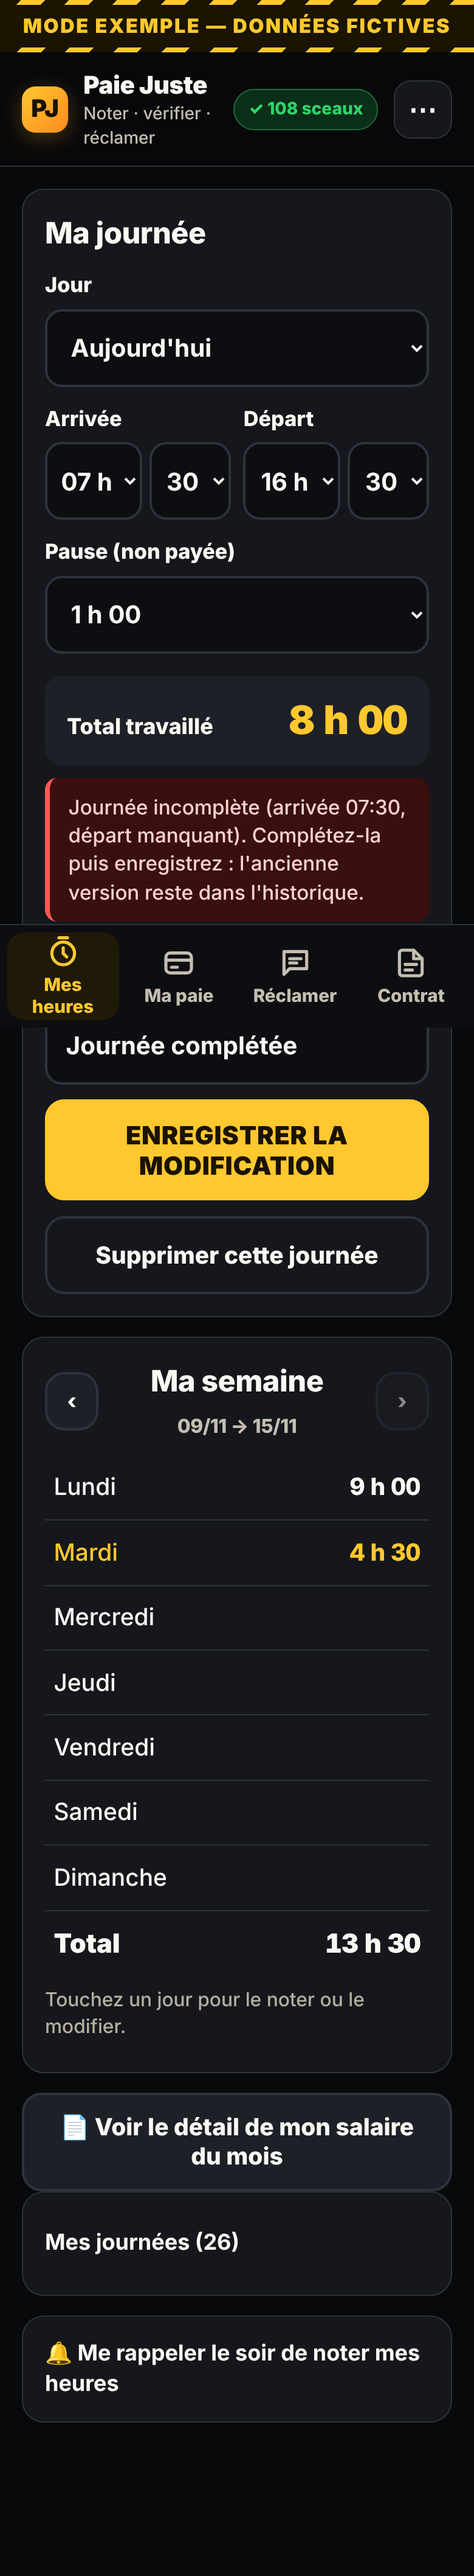
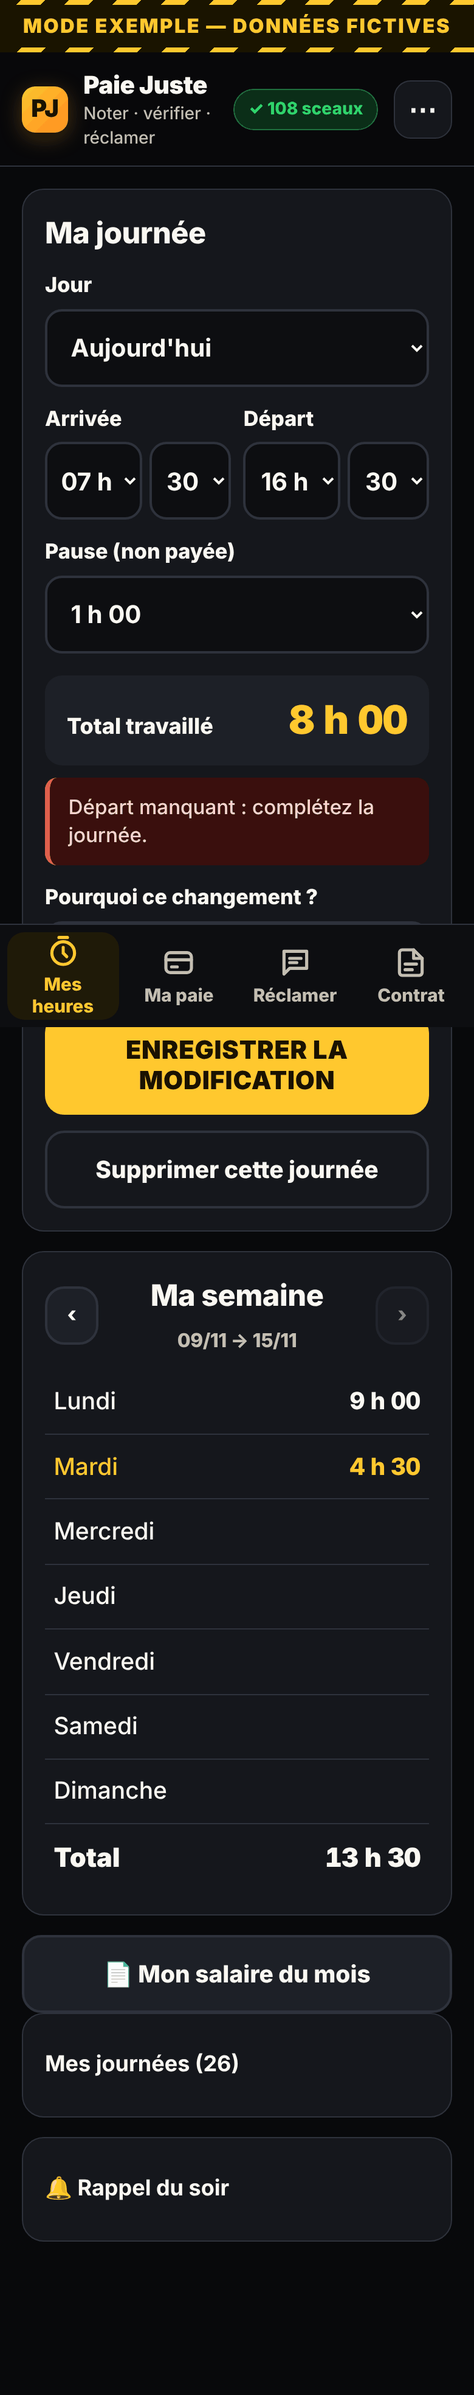
Allège l'écran Mes heures : textes d'explication retirés, libellés courts
Claude-Session: https://claude.ai/code/session_016NWEJHWN7FpaQE58cH9vDJ

diff --git a/js/modules/pointer.js b/js/modules/pointer.js
@@ -76,12 +76,8 @@ function journeeCard(ctx, today, jour, existant) {
       <div class="total-jour"><span>Total travaillé</span><b class="num" id="j-total">—</b></div>
       ${
         modif
-          ? `${
-              existant.aVerifier
-                ? `<p class="note bad">Journée incomplète (arrivée ${esc(existant.arrivee || "?")}${existant.depart ? "" : ", départ manquant"}). Complétez-la puis enregistrez : l'ancienne version reste dans l'historique.</p>`
-                : `<p class="note">Ce jour est déjà noté (${esc(existant.arrivee)} → ${esc(existant.depart)}, ${fmtH(existant.minutes)}). Pour le changer, indiquez pourquoi : l'ancienne version reste dans l'historique.</p>`
-            }
-      <label for="j-motif">Pourquoi cette modification ? (obligatoire)</label><input id="j-motif" type="text" value="${existant.aVerifier ? "Journée complétée" : ""}" placeholder="Ex. : je suis parti à 17 h, pas 16 h 30">`
+          ? `${existant.aVerifier ? `<p class="note bad">Départ manquant : complétez la journée.</p>` : ""}
+      <label for="j-motif">Pourquoi ce changement ?</label><input id="j-motif" type="text" value="${existant.aVerifier ? "Journée complétée" : ""}" placeholder="Ex. : parti à 17 h">`
           : ""
       }
       <p class="note bad" id="j-err" hidden></p>
@@ -139,7 +135,7 @@ function bindJournee(ctx, el, c, existant) {
   const motifOk = () => {
     const m = $("#j-motif") ? $("#j-motif").value.trim() : "";
     if ($("#j-motif") && !m) {
-      ctx.toast("Indiquez pourquoi vous modifiez cette journée.", true);
+      ctx.toast("Indiquez pourquoi.", true);
       return null;
     }
     return m;
@@ -167,7 +163,7 @@ function bindJournee(ctx, el, c, existant) {
       if (m === null) return;
       for (const id of existant.ids) await ctx.append("correction", { targetId: id, motif: m, annule: true });
       ui.edit = false;
-      ctx.toast("Journée supprimée. Elle reste visible, barrée, dans l'historique.");
+      ctx.toast("Journée supprimée.");
       ctx.refresh();
     };
   }
@@ -193,7 +189,6 @@ function semaineCard(c, punches, lundi, today) {
         <tr class="tot"><td>Total</td><td class="r num" id="s-total">${fmtH(s.total)}</td></tr>
         ${sup ? `<tr><td>${c.hebdo < 35 ? "dont heures compl. et sup" : "dont heures sup"}</td><td class="r num" style="color:var(--amber)">${fmtH(sup)}</td></tr>` : ""}
       </table>
-      <p class="small dim">Touchez un jour pour le noter ou le modifier.</p>
     </div>`;
 }
 
@@ -211,7 +206,6 @@ function historiqueCard(journees, today) {
           <b class="num">${j.supprimee ? "" : fmtH(j.minutes)}</b></li>`,
         )
         .join("")}</ul>
-      <p class="small dim">Chaque journée est scellée par une empreinte SHA-256 qui inclut la précédente : une modification ne remplace rien, elle s'ajoute et se voit. Ce n'est pas une preuve certifiée.</p>
     </details>`;
 }
 
@@ -222,13 +216,11 @@ function appUrl() {
 function rappelCard(ctx, today) {
   const heure = ctx.meta.rappelHeure || "19:00";
   const [soir, mois] = rappelsParDefaut({ date: today, heure, appUrl: appUrl() });
-  return `<details class="card" id="rappel"><summary style="min-height:48px;display:flex;align-items:center"><b>🔔 Me rappeler le soir de noter mes heures</b></summary>
-      <p class="small muted">Le rappel passe par l'agenda de votre téléphone, qui sonne tout seul, même appli fermée.</p>
+  return `<details class="card" id="rappel"><summary style="min-height:48px;display:flex;align-items:center"><b>🔔 Rappel du soir</b></summary>
       ${heureChamp("r-heure", "Heure du rappel", heure)}
-      <a class="btn primary" id="r-soir" target="_blank" rel="noopener" href="${esc(googleAgendaUrl(soir))}">Rappel chaque soir (lun.-ven.) dans Google Agenda</a>
-      <a class="btn" id="r-mois" target="_blank" rel="noopener" href="${esc(googleAgendaUrl(mois))}">Rappel le dernier jour du mois : vérifier ma paie</a>
-      <button class="btn ghost" id="r-ics">Autre agenda : télécharger les 2 rappels (.ics)</button>
-      <p class="small dim">Google Agenda s'ouvre avec le rappel déjà rempli : appuyez sur « Enregistrer ». Aucune donnée de paie n'est envoyée, seulement le titre et l'heure.</p>
+      <a class="btn primary" id="r-soir" target="_blank" rel="noopener" href="${esc(googleAgendaUrl(soir))}">Rappel chaque soir</a>
+      <a class="btn" id="r-mois" target="_blank" rel="noopener" href="${esc(googleAgendaUrl(mois))}">Rappel en fin de mois</a>
+      <button class="btn ghost" id="r-ics">Autre agenda (.ics)</button>
     </details>`;
 }
 
@@ -245,7 +237,7 @@ function bindRappel(ctx, el, today) {
   el.querySelector("#r-ics").onclick = () => {
     const ics = rappelsIcs(rappelsParDefaut({ date: today, heure: lire(), appUrl: appUrl() }));
     downloadBlob("paie-juste-rappels.ics", new Blob([ics], { type: "text/calendar" }));
-    ctx.toast("Fichier enregistré : ouvrez-le pour l'ajouter à votre agenda.");
+    ctx.toast("Fichier enregistré.");
   };
 }
 
@@ -272,10 +264,10 @@ export default {
     const rienAujourdhui = !journees.some((j) => j.date === today && !j.supprimee);
     el.innerHTML = `
       ${contratSelect(ctx)}
-      ${rienAujourdhui && heureParis >= 17 ? `<p class="note" id="j-oubli">Vous n'avez pas encore noté vos heures aujourd'hui.</p>` : ""}
+      ${rienAujourdhui && heureParis >= 17 ? `<p class="note" id="j-oubli">Heures du jour pas encore notées.</p>` : ""}
       ${existant && !existant.supprimee && !existant.aVerifier && !ui.edit ? faitCard(today, jour, existant) : journeeCard(ctx, today, jour, existant)}
       ${semaineCard(c, punches, lundi, today)}
-      <button class="btn" id="go-paie">📄 Voir le détail de mon salaire du mois</button>
+      <button class="btn" id="go-paie">📄 Mon salaire du mois</button>
       ${historiqueCard(journees, today)}
       ${rappelCard(ctx, today)}`;
     bindContratSelect(ctx, el);
